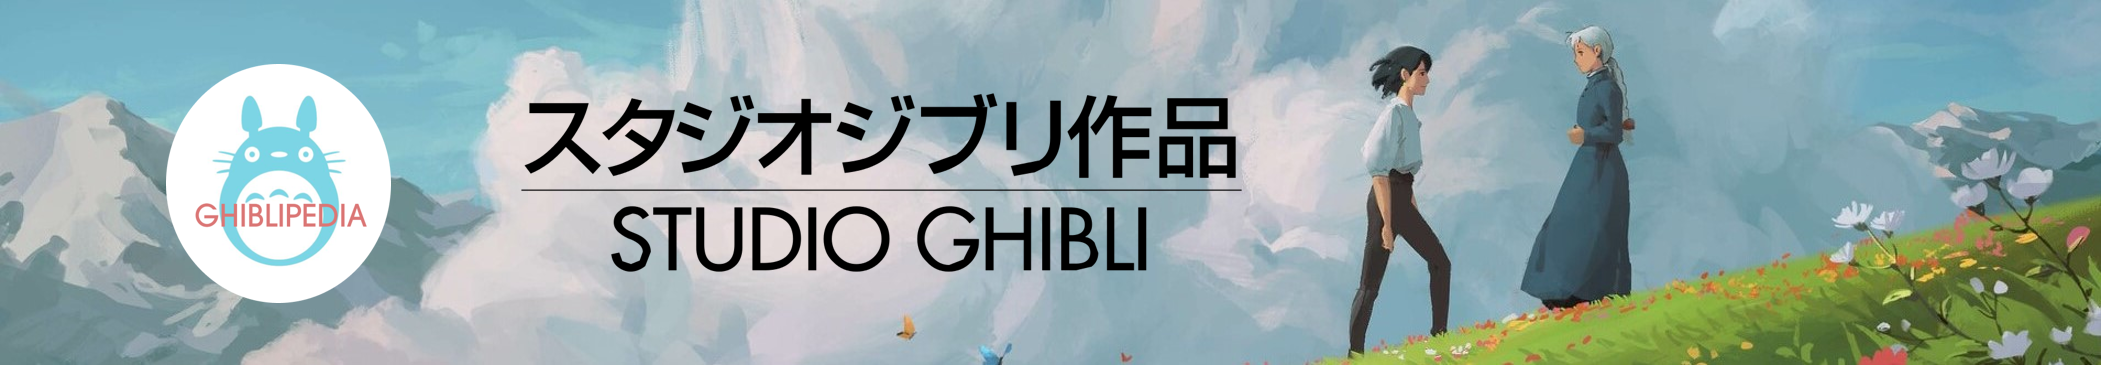
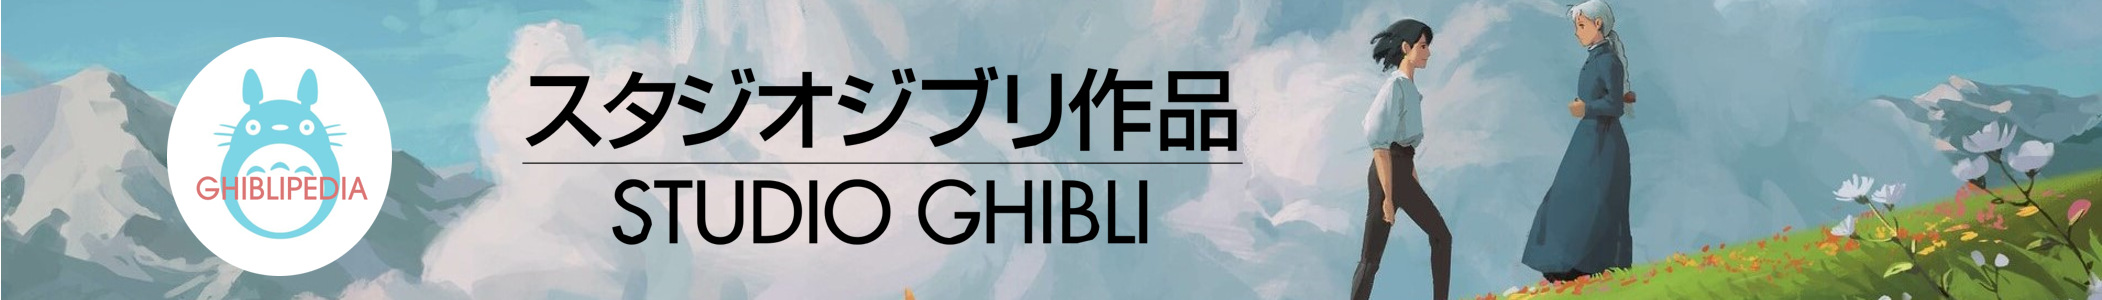
Subiendo modificaciones de la data y main

diff --git a/src/main.js b/src/main.js
@@ -1,7 +1,7 @@
 //import { example } from './data/ghibli/ghibli.js';
 
 import data from './data/ghibli/ghibli.js';
-
+import { totalMovie, countCharacters, countCharactersforPeople } from './data.js';
 
 
 const films = data.films;
@@ -14,12 +14,21 @@ const walpaper = document.getElementById("body");
 
 filmsBtn.addEventListener("click",showMovies);
 
+const totalMovies = totalMovie(films);
+/* let totalPeoples = totalPeople(films);
+console.log(totalPeoples); */
+const totalPeople = countCharacters(films);
+
 
 function showMovies(event){
   event.preventDefault();
   document.getElementById("body").style.backgroundImage="url(images/forest-background.jpg)";
   const mainElement = document.getElementById("main");
   mainElement.innerHTML = "";
+  const totalValue = document.createElement("p");
+  totalValue.classList.add("counter");
+  totalValue.innerHTML = `<p> Se muestran ${totalMovies} resultados</p>`;
+  mainElement.appendChild(totalValue);
   for (let i = 0; i < films.length; i++) {
     const divFilm = document.createElement("div");
     divFilm.classList.add("poster");
@@ -37,6 +46,8 @@ function movieDetails(event){
   const clickedElement = event.currentTarget;
   const elementId = clickedElement.getAttribute("id");
   const selectedMovie = films.find(movie => movie.id === elementId);
+
+  const peopleTotal = countCharactersforPeople(selectedMovie);
   
   const movieDetailsDiv = document.createElement("div");
   movieDetailsDiv.classList.add("movie-details");
@@ -65,7 +76,7 @@ function movieDetails(event){
         <div class="content">${selectedMovie.rt_score}</div>
       </div>
       <div class="container">
-      <div class="label">Personajes</div>
+      <div class="label">Personajes (${peopleTotal})</div>
       <div class="content">${selectedMovie.people.map(person => person.name).join(", ")}</div>
       </div>
       </div>
@@ -76,6 +87,9 @@ function movieDetails(event){
   mainElement.innerHTML = "";
   mainElement.appendChild(movieDetailsDiv);
 
+  
+
+
   const accordion = document.getElementsByClassName("container");
 
   for (let i=0; i<accordion.length; i++) {
@@ -85,15 +99,19 @@ function movieDetails(event){
   }
 }
   
-
 charactersBtn.addEventListener("click",showCharacters);
 
 function showCharacters(event){
   walpaper.style.backgroundImage = "url(images/forest-background.jpg)";
   event.preventDefault();
 
-  mainElement.innerHTML = films.map((movie) => movie.people.map(character => `
+  const totalCharacters = document.createElement("p");
+  totalCharacters.classList.add("counter");
+  totalCharacters.innerHTML = `<p> Se muestran ${totalPeople} resultados</p>`;
+  mainElement.appendChild(totalCharacters);
 
+  mainElement.innerHTML = `<p class="counter"> Se muestran ${totalPeople} resultados</p>` 
+  + films.map((movie) => movie.people.map(character => `
     <div class="people">
     
     <img src="`+ character.img + `" />
@@ -150,7 +168,7 @@ function showCharacters(event){
 
 
 
-filmsBtn.addEventListener("click",showMovies);
+/* filmsBtn.addEventListener("click",showMovies);
 
 function showMovies(event){
   event.preventDefault();
@@ -191,4 +209,4 @@ function showCharacters(event){
     </div>
 
 `));
-} 
+}  */

diff --git a/src/data.js b/src/data.js
@@ -4,6 +4,43 @@ export const example = () => {
   return 'example';
 };
 
-export const anotherExample = () => {
-  return 'OMG';
+export const totalMovie = (movie) => {
+
+  const counter1= movie.length
+
+  return counter1;
 };
+
+export const countCharacters = (films) => {
+  
+  let characterCount = 0;
+  films.forEach((film) => {
+    characterCount += film.people.length;
+  });
+  return characterCount;
+  
+};
+
+export const countCharactersforPeople = (films) => {
+  
+  const characterCountP = films.people.length;
+  return characterCountP;
+  
+};
+
+/* export const totalPeople = (movie) => {
+
+  const element = movie.map((movie) => movie.people);
+  console.log(element); */
+/*   let counter2 = movie.filter(counterTitle => counterTitle === element); */
+/*     return element.length; */
+/*   }; */
+
+/* array = array.filter(value => value == element);
+var array = [1, 2, 3, 5, 2, 5, 9, 8, 3, 5, 2, 5].reduce((count, value) =>
+ (value == 5 ? count + 1 : count), 0) */
+/*   const result = films.filter(title => title == "title");
+console.log(result);
+  const element = films.map((movie) => movie.title.map(character => character.title));
+  let counter1 = films.filter(counterTitle => counterTitle === element);
+  console.log(counter1); */

diff --git a/test/data.spec.js b/test/data.spec.js
@@ -1,23 +1,24 @@
-import { example, anotherExample } from '../src/data.js';
+import { totalMovie, countCharacters, countCharactersforPeople } from '../src/data.js';
 
 
-describe('example', () => {
+describe('totalMovie', () => {
   it('is a function', () => {
-    expect(typeof example).toBe('function');
+    expect(typeof totalMovie).toBe('function');
   });
 
-  it('returns `example`', () => {
-    expect(example()).toBe('example');
-  });
 });
 
 
-describe('anotherExample', () => {
+describe('countCharacters', () => {
   it('is a function', () => {
-    expect(typeof anotherExample).toBe('function');
+    expect(typeof countCharacters).toBe('function');
   });
 
-  it('returns `anotherExample`', () => {
-    expect(anotherExample()).toBe('OMG');
+});
+
+describe('countCharactersforPeople', () => {
+  it('is a function', () => {
+    expect(typeof countCharactersforPeople).toBe('function');
   });
+
 });

diff --git a/src/style.css b/src/style.css
@@ -3,9 +3,9 @@
     padding: 0;
 }
 header {
-    position: absolute;
+/*     position: absolute; */
     width: 100%;
-    height: 200px;
+    height: 150px;
     left: 0;
     top: 0;
     background-image: url(images/header.png);
@@ -22,6 +22,7 @@ body {
     min-height: 100vh;
 }
 main {
+    background-color: #DB776D;
 margin-top: 20rem;
 margin-bottom: 10rem;
 margin-left: 2rem;
@@ -57,13 +58,10 @@ margin-right: 1rem;
     color: white;
     text-align: center;
     margin: 0 auto;
+    margin-top: -100px;
+    margin-bottom: 1rem;
     max-width: 800px;
-    height: 200px;
-    position: absolute;
-    bottom: 25%;
-    left: 10%;
-    right: 10%;
-    transform: translateX(10%);
+    transform: translateX(20%);
     font-size: 4rem;
     font-family: 'ITC Avant Garde Gothic Std Book';
 }
